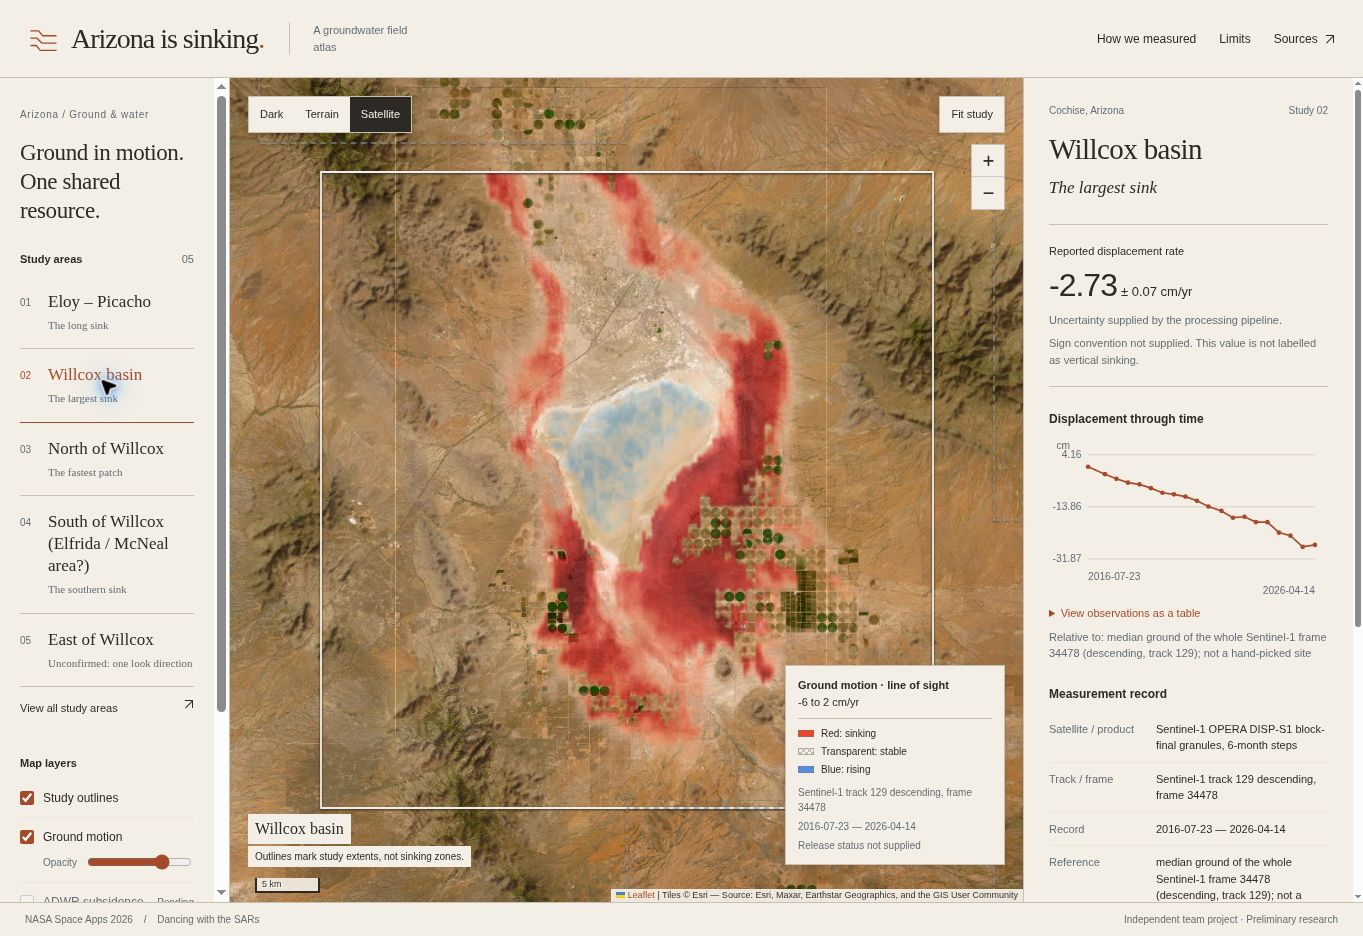
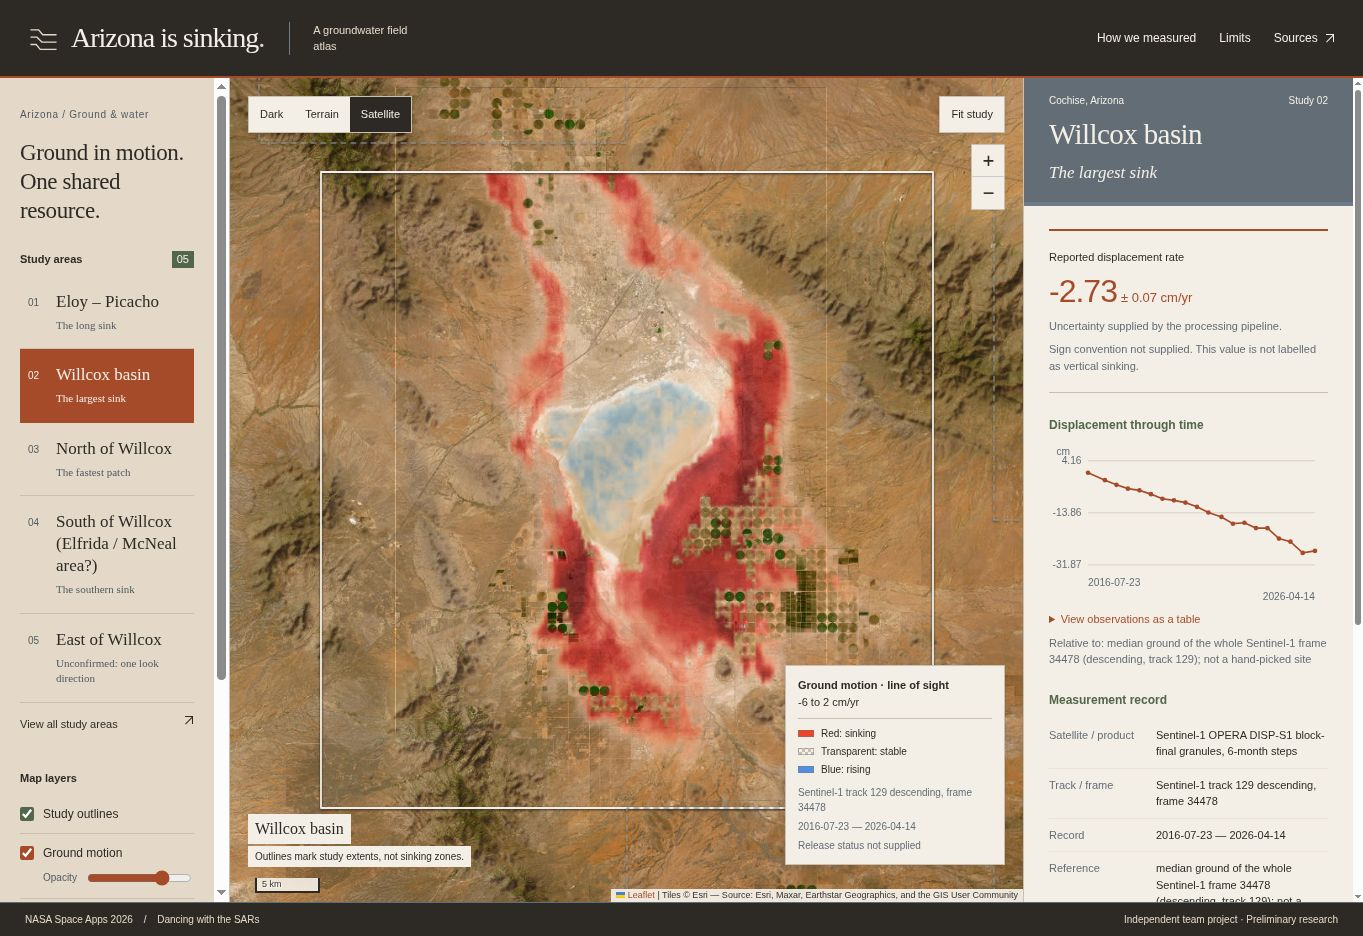
Apply full Sonoran Sand palette across existing UI surfaces

diff --git a/web/preview.html b/web/preview.html
@@ -677,6 +677,44 @@ svg.leaflet-image-layer.leaflet-interactive path {
 @media(max-width:800px){.layer-section{display:none}.sidebar.layers-open .layer-section{display:block}.mobile-layer-toggle{display:inline-block;font-size:11px;color:var(--rust);padding:10px 0 0}.study-section .text-action{display:inline-flex;margin-right:25px}.sidebar-footer{padding-top:9px}}
 @media(max-width:420px){.masthead nav{width:100%;margin-left:38px;justify-content:space-between;gap:10px}.hotspot-button .place{font-size:15px}.layer-row label{font-size:11px}.layer-state{font-size:9px}.map-toolbar button{font-size:10px}.map-caption span:last-child{max-width:250px}}
 @media(prefers-reduced-motion:reduce){*{scroll-behavior:auto!important;transition:none!important;animation:none!important}}
+
+/* Sonoran Sand: distinct surface and interaction roles, without layout changes. */
+:root{--slate:#6C7A89;--slate-deep:#626D76;--on-sand:#505B62}
+.masthead{background:var(--ink);border-bottom:2px solid var(--rust);color:var(--canvas)}
+.masthead .wordmark,.masthead nav button{color:var(--canvas)}
+.masthead .wordmark svg{stroke:var(--surface)}
+.masthead .title-stop{color:var(--surface)}
+.masthead .project-label{color:var(--surface);border-color:var(--slate)}
+.masthead nav button:hover{color:var(--surface)}
+.masthead a:focus-visible,.masthead button:focus-visible{outline-color:var(--canvas)}
+.sidebar{background:var(--surface)}
+.sidebar .eyebrow,.sidebar .hotspot-button .tagline,.sidebar .hotspot-button .index,
+.sidebar .layer-note,.sidebar .opacity-control,.sidebar .layer-row.unavailable label{color:var(--on-sand)}
+.sidebar h2>span{background:var(--olive);color:var(--canvas);padding:0 5px}
+.hotspot-button{padding-left:8px;padding-right:8px}
+.hotspot-button[aria-pressed=true]{background:var(--rust);border-bottom-color:var(--rust);color:var(--canvas)}
+.hotspot-button[aria-pressed=true] .place,.hotspot-button[aria-pressed=true] .index,
+.hotspot-button[aria-pressed=true] .tagline{color:var(--canvas)}
+.hotspot-button[aria-pressed=true]:hover{color:var(--canvas)}
+.layer-row{border-bottom-color:var(--rule)}
+.layer-state:not(:empty){padding:1px 4px;background:var(--canvas);color:var(--slate-deep);border:1px solid var(--rule)}
+#layer-hotspots{accent-color:var(--olive)}
+.sidebar-footer{border-top:2px solid var(--olive);background:var(--canvas);color:var(--olive);padding:12px 9px;margin-top:20px}
+.sidebar-footer .status-dot{background:var(--olive);width:6px;height:6px}
+.sidebar-footer button{color:var(--olive)}
+.details-panel{--detail-gutter:25px;--detail-top:25px;background:var(--canvas)}
+.detail-kicker{background:var(--slate-deep);color:var(--canvas);margin:calc(-1 * var(--detail-top)) calc(-1 * var(--detail-gutter)) 0;padding:15px var(--detail-gutter) 10px}
+.details-panel h1{background:var(--slate-deep);color:var(--canvas);margin:0 calc(-1 * var(--detail-gutter));padding:0 var(--detail-gutter) 9px}
+.details-panel .story-name{background:var(--slate-deep);color:var(--canvas);margin:0 calc(-1 * var(--detail-gutter)) 23px;padding:0 var(--detail-gutter) 16px;border-bottom:4px solid var(--slate)}
+.metric:not(.pending){border-top:2px solid var(--rust)}
+.metric:not(.pending) .metric-value{color:var(--rust)}
+.metric.pending .metric-value{color:var(--slate-deep)}
+.detail-section h2{color:var(--olive)}
+.validation-note{border-left:2px solid var(--slate);padding-left:9px}
+.page-footer{background:var(--ink);color:var(--surface);border-top-color:var(--slate-deep)}
+@media(min-width:1600px){.details-panel{--detail-gutter:30px;--detail-top:28px}}
+@media(max-width:1100px){.details-panel{--detail-gutter:18px;--detail-top:20px}}
+@media(max-width:800px){.details-panel{--detail-gutter:20px;--detail-top:25px}.hotspot-button{padding-left:7px;padding-right:7px}.sidebar-footer{margin-top:12px;padding:9px}}
 </style>
   <style>/* Map-only treatment. The Sonoran Sand application layout and typography are unchanged. */
 .map-column #map{background:#303333}

diff --git a/web/styles.css b/web/styles.css
@@ -7,3 +7,41 @@
 @media(max-width:800px){.layer-section{display:none}.sidebar.layers-open .layer-section{display:block}.mobile-layer-toggle{display:inline-block;font-size:11px;color:var(--rust);padding:10px 0 0}.study-section .text-action{display:inline-flex;margin-right:25px}.sidebar-footer{padding-top:9px}}
 @media(max-width:420px){.masthead nav{width:100%;margin-left:38px;justify-content:space-between;gap:10px}.hotspot-button .place{font-size:15px}.layer-row label{font-size:11px}.layer-state{font-size:9px}.map-toolbar button{font-size:10px}.map-caption span:last-child{max-width:250px}}
 @media(prefers-reduced-motion:reduce){*{scroll-behavior:auto!important;transition:none!important;animation:none!important}}
+
+/* Sonoran Sand: distinct surface and interaction roles, without layout changes. */
+:root{--slate:#6C7A89;--slate-deep:#626D76;--on-sand:#505B62}
+.masthead{background:var(--ink);border-bottom:2px solid var(--rust);color:var(--canvas)}
+.masthead .wordmark,.masthead nav button{color:var(--canvas)}
+.masthead .wordmark svg{stroke:var(--surface)}
+.masthead .title-stop{color:var(--surface)}
+.masthead .project-label{color:var(--surface);border-color:var(--slate)}
+.masthead nav button:hover{color:var(--surface)}
+.masthead a:focus-visible,.masthead button:focus-visible{outline-color:var(--canvas)}
+.sidebar{background:var(--surface)}
+.sidebar .eyebrow,.sidebar .hotspot-button .tagline,.sidebar .hotspot-button .index,
+.sidebar .layer-note,.sidebar .opacity-control,.sidebar .layer-row.unavailable label{color:var(--on-sand)}
+.sidebar h2>span{background:var(--olive);color:var(--canvas);padding:0 5px}
+.hotspot-button{padding-left:8px;padding-right:8px}
+.hotspot-button[aria-pressed=true]{background:var(--rust);border-bottom-color:var(--rust);color:var(--canvas)}
+.hotspot-button[aria-pressed=true] .place,.hotspot-button[aria-pressed=true] .index,
+.hotspot-button[aria-pressed=true] .tagline{color:var(--canvas)}
+.hotspot-button[aria-pressed=true]:hover{color:var(--canvas)}
+.layer-row{border-bottom-color:var(--rule)}
+.layer-state:not(:empty){padding:1px 4px;background:var(--canvas);color:var(--slate-deep);border:1px solid var(--rule)}
+#layer-hotspots{accent-color:var(--olive)}
+.sidebar-footer{border-top:2px solid var(--olive);background:var(--canvas);color:var(--olive);padding:12px 9px;margin-top:20px}
+.sidebar-footer .status-dot{background:var(--olive);width:6px;height:6px}
+.sidebar-footer button{color:var(--olive)}
+.details-panel{--detail-gutter:25px;--detail-top:25px;background:var(--canvas)}
+.detail-kicker{background:var(--slate-deep);color:var(--canvas);margin:calc(-1 * var(--detail-top)) calc(-1 * var(--detail-gutter)) 0;padding:15px var(--detail-gutter) 10px}
+.details-panel h1{background:var(--slate-deep);color:var(--canvas);margin:0 calc(-1 * var(--detail-gutter));padding:0 var(--detail-gutter) 9px}
+.details-panel .story-name{background:var(--slate-deep);color:var(--canvas);margin:0 calc(-1 * var(--detail-gutter)) 23px;padding:0 var(--detail-gutter) 16px;border-bottom:4px solid var(--slate)}
+.metric:not(.pending){border-top:2px solid var(--rust)}
+.metric:not(.pending) .metric-value{color:var(--rust)}
+.metric.pending .metric-value{color:var(--slate-deep)}
+.detail-section h2{color:var(--olive)}
+.validation-note{border-left:2px solid var(--slate);padding-left:9px}
+.page-footer{background:var(--ink);color:var(--surface);border-top-color:var(--slate-deep)}
+@media(min-width:1600px){.details-panel{--detail-gutter:30px;--detail-top:28px}}
+@media(max-width:1100px){.details-panel{--detail-gutter:18px;--detail-top:20px}}
+@media(max-width:800px){.details-panel{--detail-gutter:20px;--detail-top:25px}.hotspot-button{padding-left:7px;padding-right:7px}.sidebar-footer{margin-top:12px;padding:9px}}

diff --git a/web/README.md b/web/README.md
@@ -92,7 +92,15 @@ The map update was browser-checked against all current study selections, real
 rate PNGs, basemap switching and the portable preview. A 390px phone review
 confirmed study selection, Layers disclosure and no horizontal overflow.
 
-The map-only update preserves `styles.css`, the Sonoran Sand theme and the three-column layout. NASA Worldview, ISRO Bhuvan and Copernicus Browser informed the map treatment: restrained controls, imagery as geographic context, thin outlines and visible dataset provenance. No agency affiliation is implied.
+The three-column layout and typography remain intact. Sonoran Sand has distinct
+roles: ivory canvas, sand sidebar, ink masthead/footer, rust selection and reported
+rate, olive study count/status and slate metadata headers. Small light text uses
+the darker slate variant for contrast. Scientific raster colours are independent
+of these UI colours.
+
+NASA Worldview, ISRO Bhuvan and Copernicus Browser informed the map treatment:
+restrained controls, imagery as geographic context, thin outlines and visible
+dataset provenance. No agency affiliation is implied.
 
 ## Scope
 
